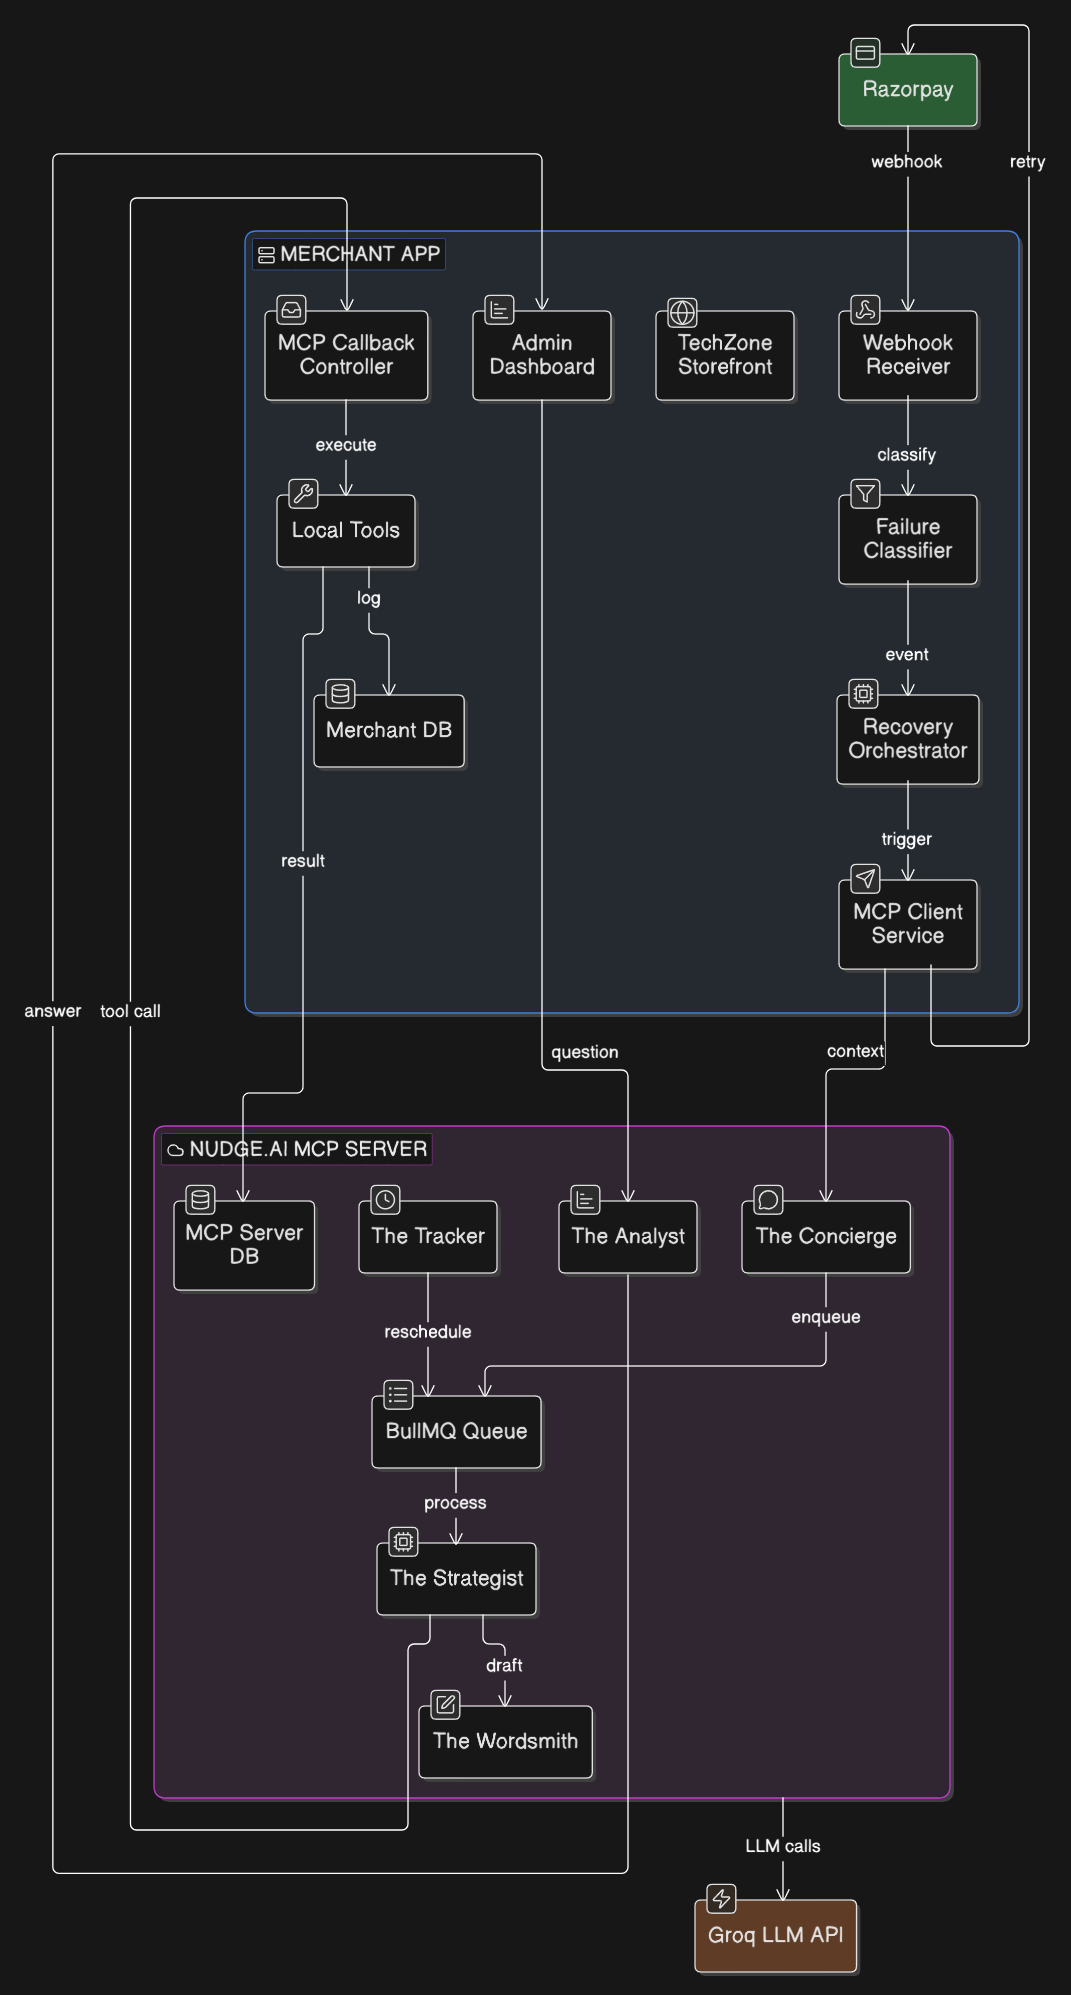
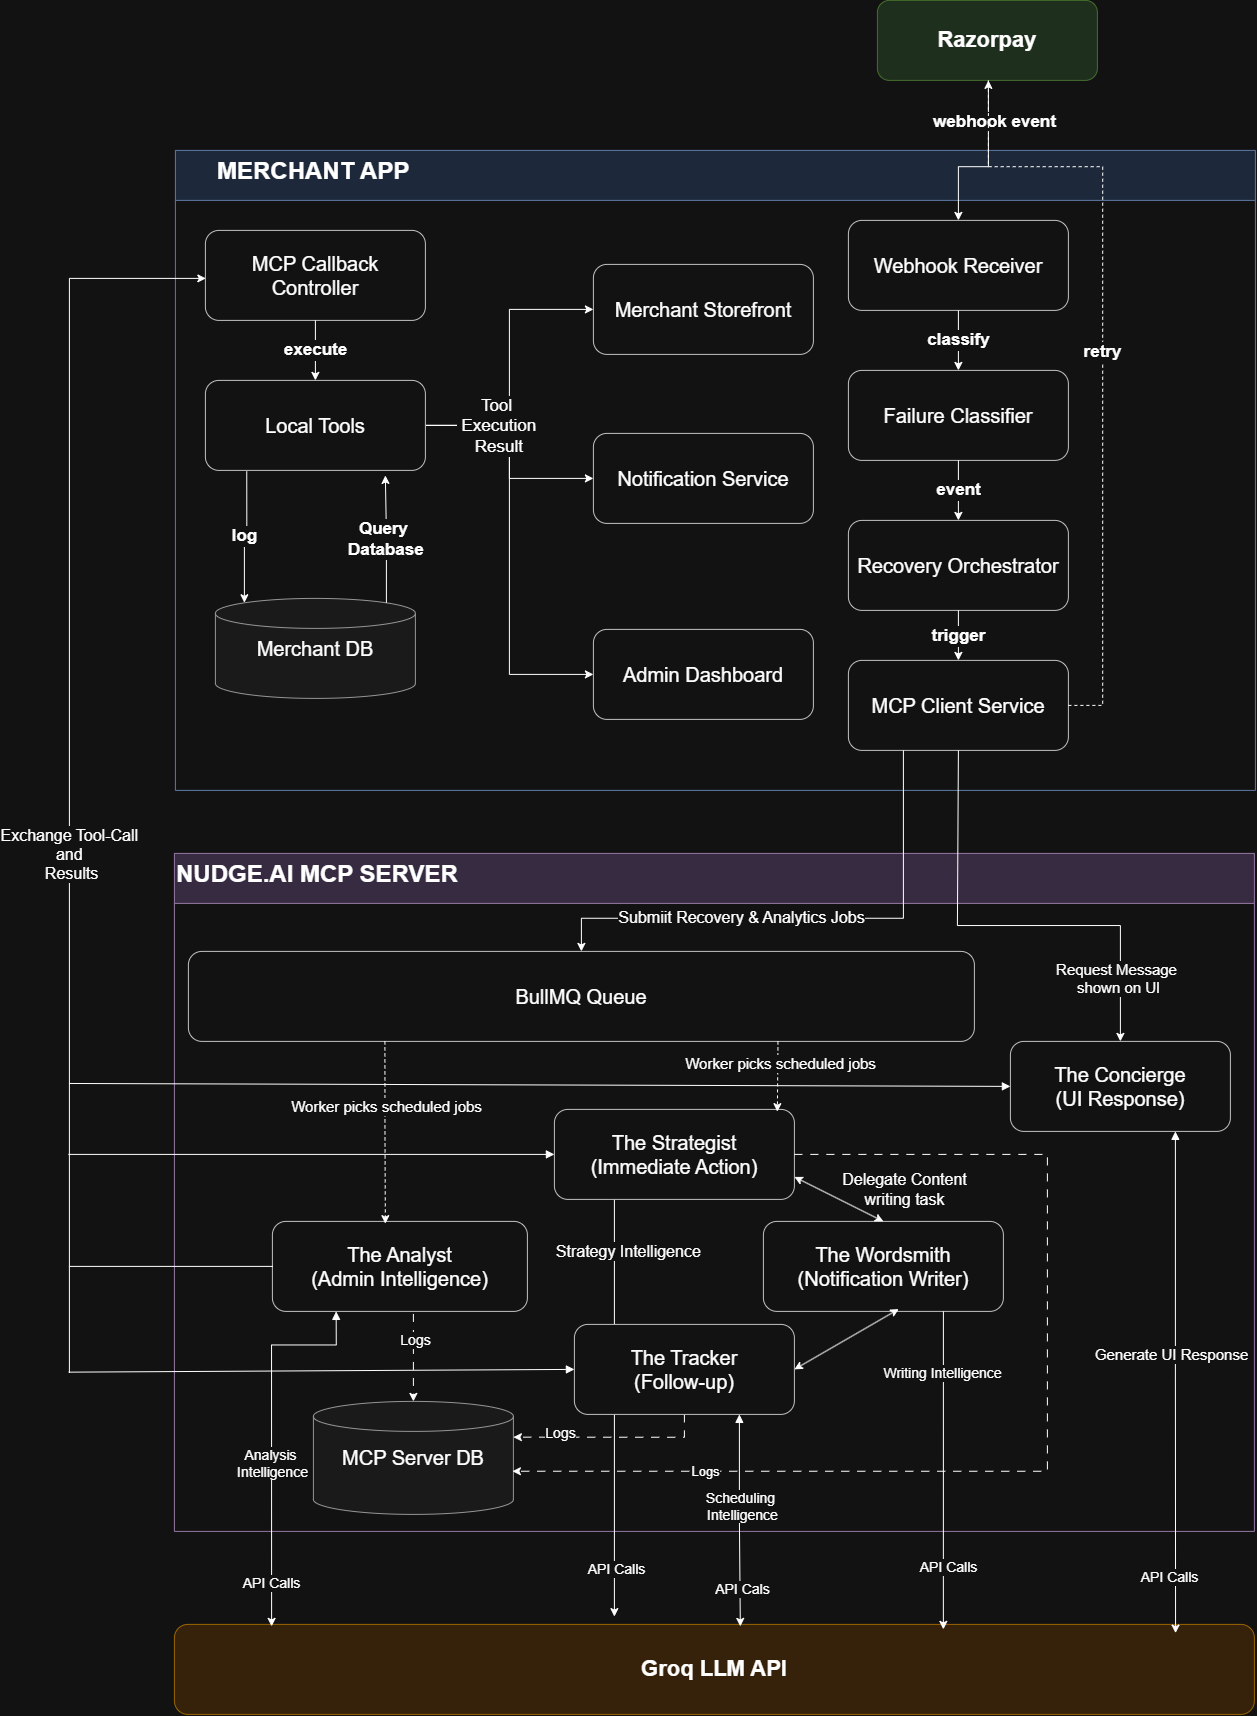
changed diagrams in readme

diff --git a/mcp-server/src/queue/recoveryWorker.ts b/mcp-server/src/queue/recoveryWorker.ts
@@ -155,9 +155,9 @@ async function processRecoveryJob(job: Job<RecoveryJobPayload>) {
                 product_name: args.product_name,
                 amount_rupees: args.amount,
                 currency: "INR",
-                product_offer: args.product_offer || context.order_details?.product_offer ?? undefined,
+                product_offer: args.product_offer || context.order_details?.product_offer || undefined,
               }
-            : context.order_details ? { ...context.order_details, product_offer: args.product_offer || context.order_details.product_offer ?? undefined } : null;
+            : context.order_details ? { ...context.order_details, product_offer: args.product_offer || context.order_details.product_offer || undefined } : null;
 
         const copy = await runNotificationWriterAgent({
           failureCategory: context.failure_category,
